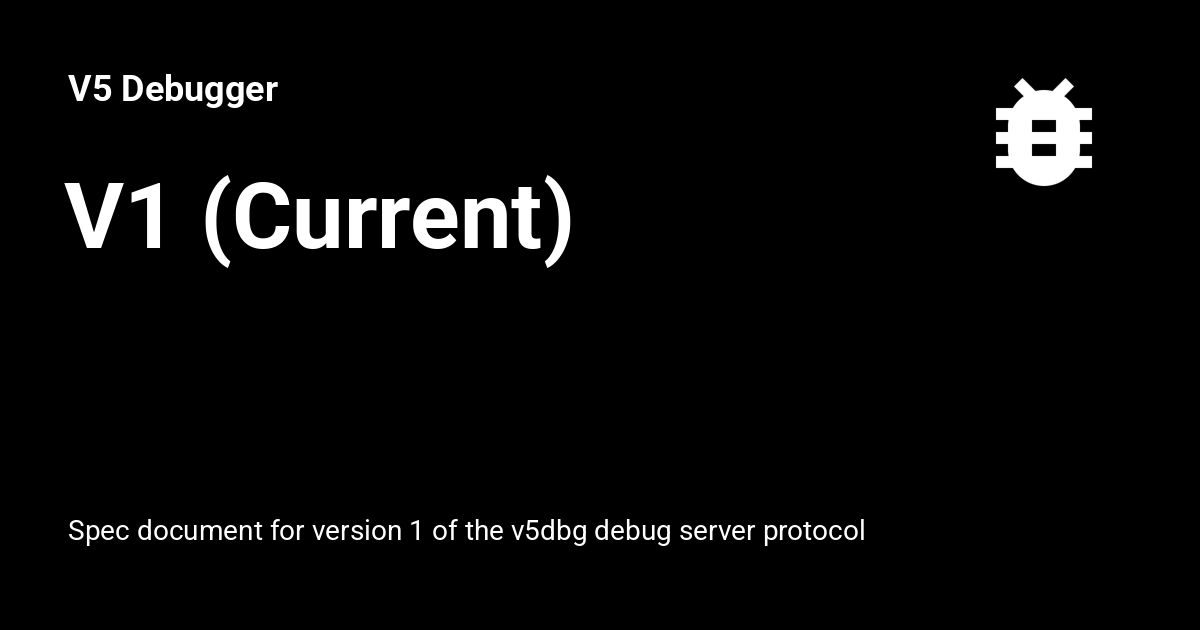
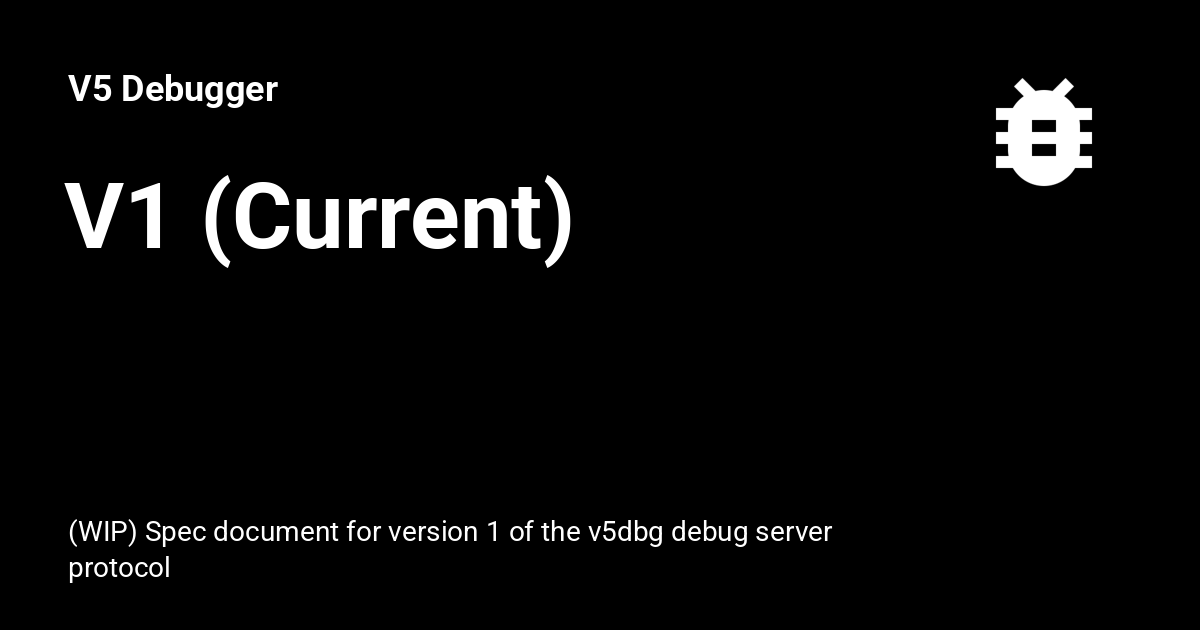
Deployed b513daa to 0.1 with MkDocs 1.6.1 and mike 2.1.3

Changed region(s): [[0.0617, 0.8143, 0.7092, 0.9349]]

diff --git a/0.1/protocol/v1/index.html b/0.1/protocol/v1/index.html
@@ -6,7 +6,7 @@
       <meta charset="utf-8">
       <meta name="viewport" content="width=device-width,initial-scale=1">
       
-        <meta name="description" content="Spec document for version 1 of the v5dbg debug server protocol">
+        <meta name="description" content="(WIP) Spec document for version 1 of the v5dbg debug server protocol">
       
       
       
@@ -59,7 +59,7 @@
       
         <meta  property="og:title"  content="V1 (Current) - V5 Debugger" >
       
-        <meta  property="og:description"  content="Spec document for version 1 of the v5dbg debug server protocol" >
+        <meta  property="og:description"  content="(WIP) Spec document for version 1 of the v5dbg debug server protocol" >
       
         <meta  property="og:image"  content="https://v5dbg.beachmont.xyz/0.1/assets/images/social/protocol/v1.png" >
       
@@ -75,7 +75,7 @@
       
         <meta  name="twitter:title"  content="V1 (Current) - V5 Debugger" >
       
-        <meta  name="twitter:description"  content="Spec document for version 1 of the v5dbg debug server protocol" >
+        <meta  name="twitter:description"  content="(WIP) Spec document for version 1 of the v5dbg debug server protocol" >
       
         <meta  name="twitter:image"  content="https://v5dbg.beachmont.xyz/0.1/assets/images/social/protocol/v1.png" >
       
